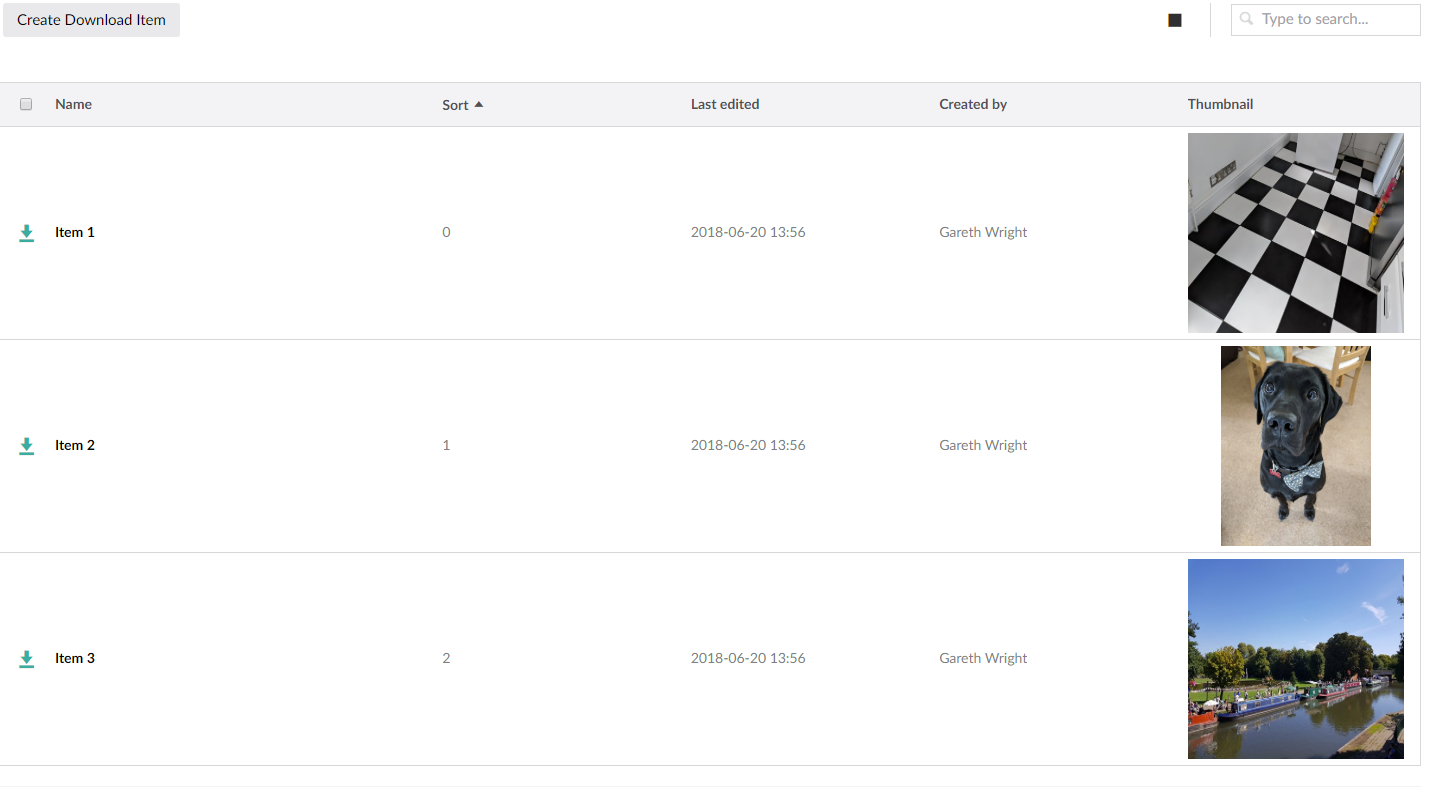
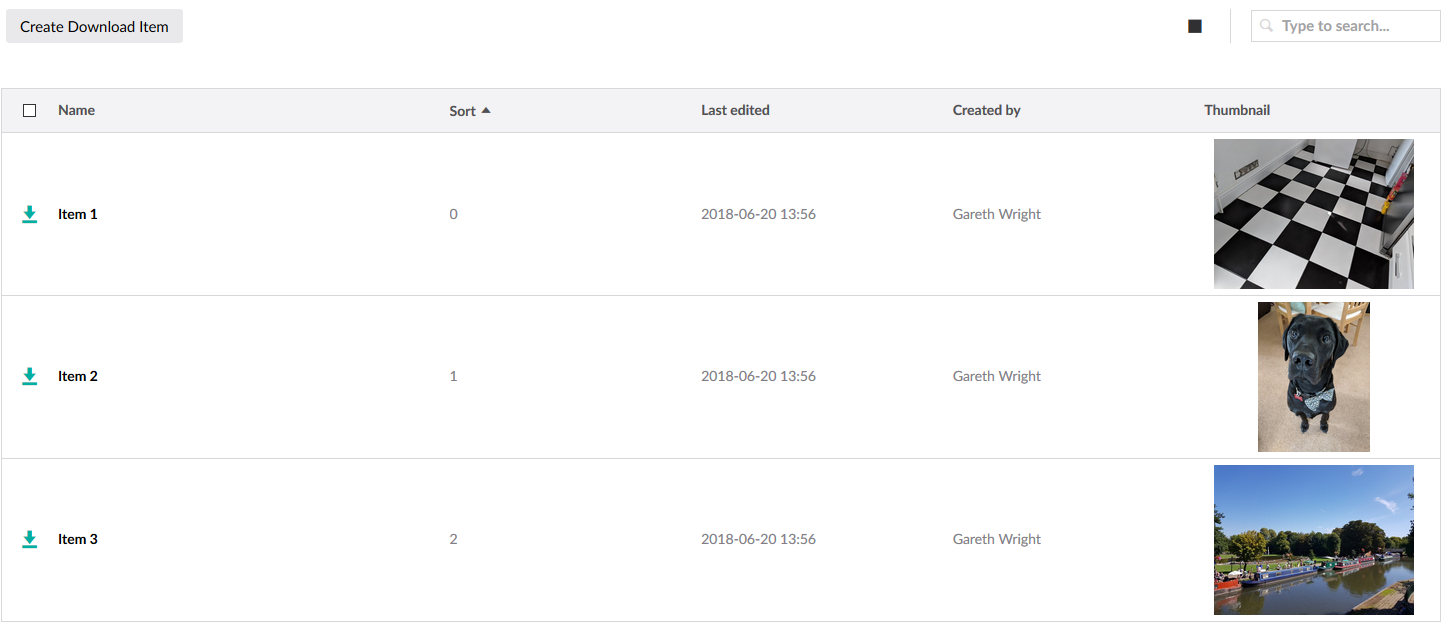
updates

diff --git a/ThumbnailListView/thumbnailListView.controller.js b/ThumbnailListView/thumbnailListView.controller.js
@@ -1,60 +1,60 @@
-<div ng-controller="Jaywing.ThumbnailListView.ThumbnailListViewController as vm">
+(function () {
+    "use strict";
 
-    <div class="umb-table" ng-if="items">
+    function ThumbnailListViewController($scope, listViewHelper, $location, mediaHelper, mediaResource) {
 
-        <div class="umb-table-head">
-            <div class="umb-table-row">
-                <div class="umb-table-cell">
-                    <input class="umb-table__input" type="checkbox" ng-if="options.bulkActionsAllowed" ng-click="vm.selectAll($event)" ng-checked="vm.isSelectedAll()">
-                </div>
-                <div class="umb-table-cell umb-table__name">
-                    <a class="umb-table-head__link sortable" href="#" ng-click="vm.sort('Name', true)" prevent-default>
-                        <localize key="general_name">Name</localize>
-                        <i class="umb-table-head__icon icon" ng-class="{'icon-navigation-up': vm.isSortDirection('Name', 'asc'), 'icon-navigation-down': vm.isSortDirection('Name', 'desc')}"></i>
-                    </a>
-                </div>
-                <div class="umb-table-cell" ng-repeat="column in options.includeProperties">
-                    <a class="umb-table-head__link" title="Sort by {{ column.header }}" href="#" ng-click="vm.sort(column.alias, column.allowSorting)" ng-class="{'sortable': column.allowSorting}" prevent-default>
-                        <span ng-bind="column.header"></span>
-                        <i class="umb-table-head__icon icon" ng-class="{'icon-navigation-up': vm.isSortDirection(column.alias, 'asc'), 'icon-navigation-down': vm.isSortDirection(column.alias, 'desc')}"></i>
-                    </a>
-                </div>
-            </div>
-        </div>
-        <div class="umb-table-body thumbnailListView">
-            <div class="umb-table-row"
-                 ng-repeat="item in items"
-                 ng-class="{
-                            '-selected':item.selected,
-                            '-published':item.published,
-                            '-unpublished':!item.published
-                         }"
-                 ng-click="vm.selectItem(item, $index, $event)">
+        var vm = this;
 
-                <div class="umb-table-cell">
-                    <i class="umb-table-body__icon umb-table-body__fileicon {{item.icon}}" ng-class="getIcon(item)"></i>
-                    <i class="umb-table-body__icon umb-table-body__checkicon icon-check"></i>
-                </div>
-                <div class="umb-table-cell umb-table__name">
-                    <a title="{{ item.name }}" class="umb-table-body__link" href=""
-                       ng-click="vm.clickItem(item, $event)"
-                       ng-bind="item.name">
-                    </a>
-                </div>
-                <div class="umb-table-cell" ng-repeat="column in options.includeProperties">
-                 
-                    <span ng-if="column.alias === 'thumbnail'" class="umb-content-list__details-image">
-                        <img ng-src="{{item.thumbnailImage}}"  />
-                    </span>
-                    <span ng-if="column.alias !== 'thumbnail'">
-                        {{item[column.alias]}}
-                    </span>
-                </div>
-            </div>
-        </div>
-    </div>
+        vm.nodeId = $scope.contentId;
 
-    <umb-empty-state ng-if="!items && options.filter.length <= 0" position="center">
-        <localize key="content_listViewNoItems">There are no items show in the list.</localize>
-    </umb-empty-state>
-</div>
+        vm.selectItem = selectItem;
+        vm.clickItem = clickItem;
+
+        vm.selectAll = selectAll;
+        vm.isSelectedAll = isSelectedAll;
+        vm.isSortDirection = isSortDirection;
+        vm.sort = sort;
+
+        function selectAll($event) {
+            listViewHelper.selectAllItems($scope.items, $scope.selection, $event);
+        }
+
+        function isSelectedAll() {
+            return listViewHelper.isSelectedAll($scope.items, $scope.selection);
+        }
+
+        function selectItem(selectedItem, $index, $event) {
+            listViewHelper.selectHandler(selectedItem, $index, $scope.items, $scope.selection, $event);
+        }
+
+        function clickItem(item) {
+            $location.path($scope.entityType + '/' + $scope.entityType + '/edit/' + item.id);
+        }
+
+        function isSortDirection(col, direction) {
+            return listViewHelper.setSortingDirection(col, direction, $scope.options);
+        }
+
+        function sort(field, allow) {
+            if (allow) {
+                listViewHelper.setSorting(field, allow, $scope.options);
+                $scope.getContent($scope.contentId);
+            }
+        }
+
+        function activate() {
+            angular.forEach($scope.items, function (item) {
+                if (item.thumbnail) {
+                    mediaResource.getById(item.thumbnail)
+                        .then(function (media) {
+                            item.thumbnailImage = mediaHelper.resolveFile(media, true);
+                        });
+                }
+            });
+        }
+        activate();
+    }
+
+    angular.module("umbraco").controller("Jaywing.ThumbnailListView.ThumbnailListViewController", ThumbnailListViewController);
+
+})();

diff --git a/ThumbnailListView/thumbnailListView.html b/ThumbnailListView/thumbnailListView.html
@@ -24,7 +24,11 @@
         <div class="umb-table-body thumbnailListView">
             <div class="umb-table-row"
                  ng-repeat="item in items"
-                 ng-class="{'-selected':item.selected,'-published':item.published,'-unpublished':!item.published}"
+                 ng-class="{
+                            '-selected':item.selected,
+                            '-published':item.published,
+                            '-unpublished':!item.published
+                         }"
                  ng-click="vm.selectItem(item, $index, $event)">
 
                 <div class="umb-table-cell">

diff --git a/ThumbnailListView/thumbnailListView.css b/ThumbnailListView/thumbnailListView.css
@@ -3,7 +3,7 @@
 }
 
 .umb-content-list__details-image img {
-    height: 200px;  
+    max-height: 150px;  
 }
 
 .umb-content-list__details-list.-light img {
@@ -11,5 +11,9 @@
 }
 
 .thumbnailListView .umb-table-cell > * {
-    white-space: normal;
+    white-space: normal;   
+}
+
+.thumbnailListView .umb-table-row {
+    min-height:150px;
 }
